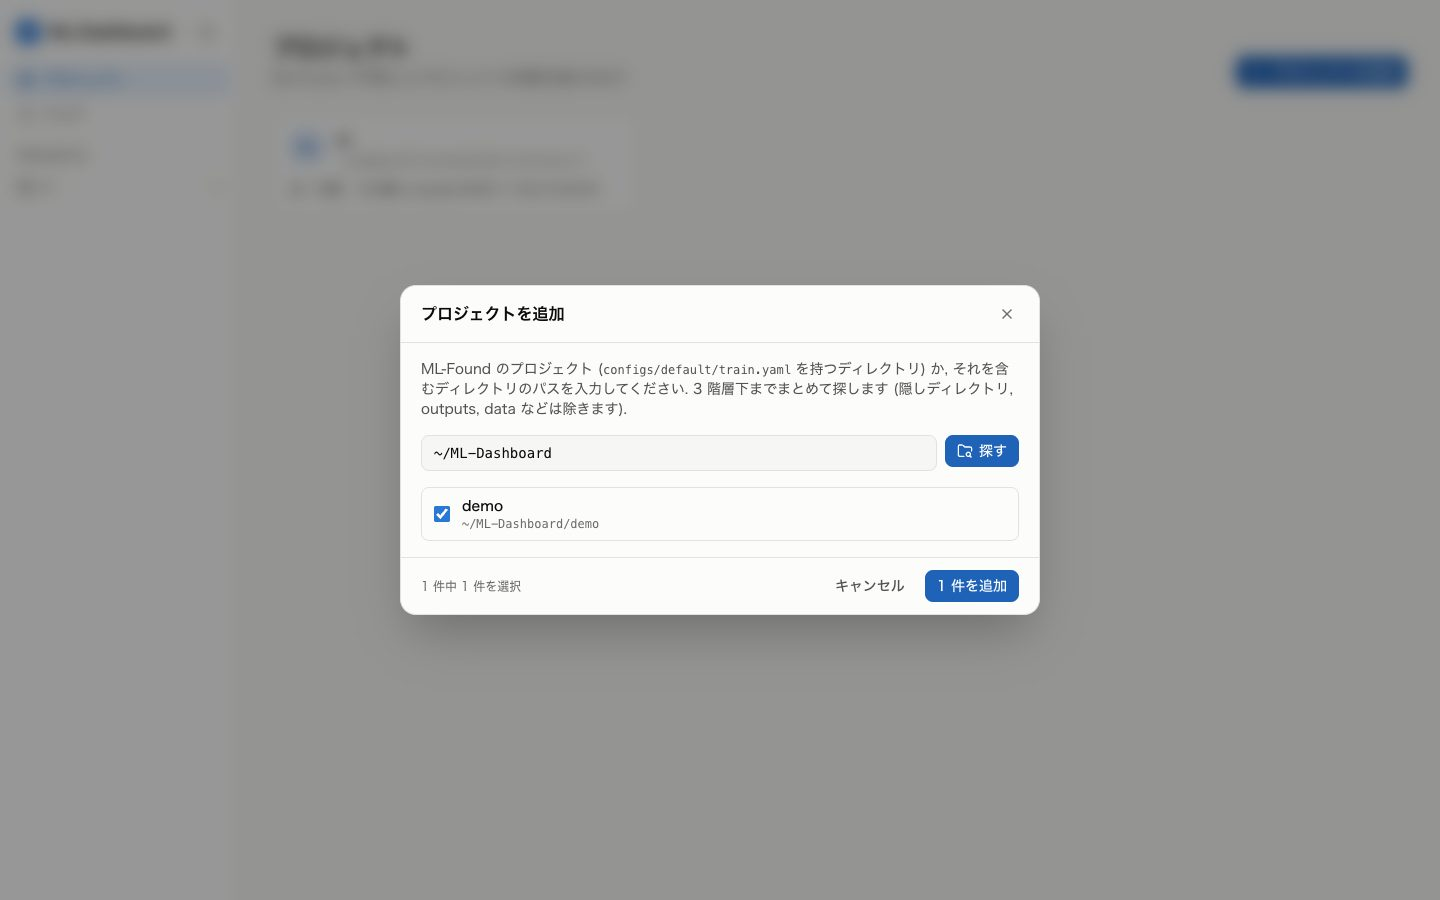
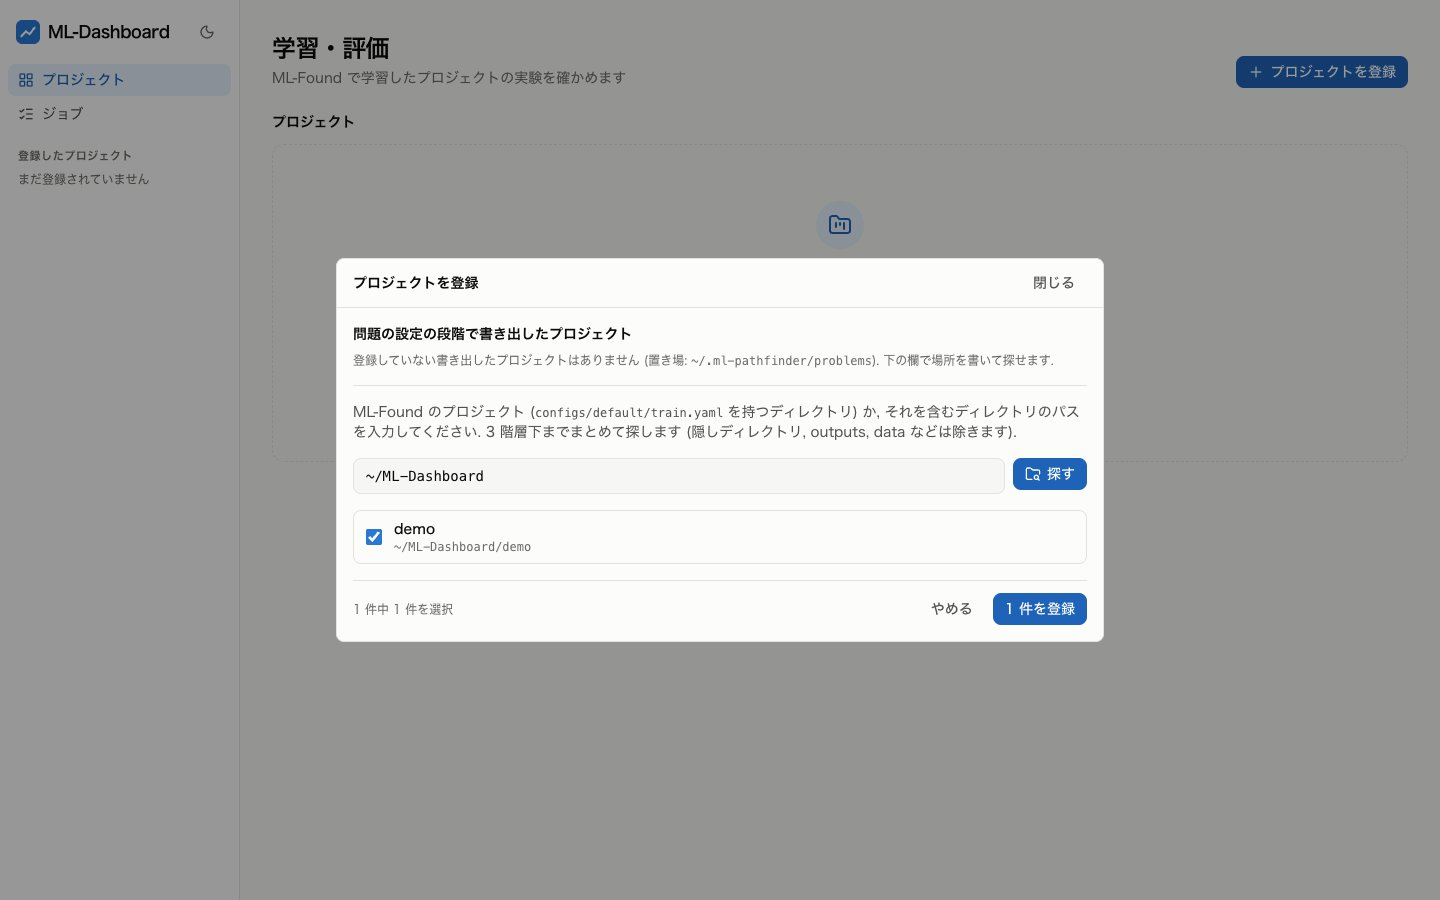
README と操作ガイドの画面の図を今の画面で撮り直す

diff --git a/TODO.md b/TODO.md
@@ -5,19 +5,15 @@
 
 ## 優先度 高
 
-### README と操作ガイドの画面の図を撮り直す
-- 何を: `make screenshots` で README の画面の図と操作ガイドの図を撮り直す
-- なぜ: 図の左の欄の見出し (Projects) とボタン (プロジェクトを追加) が今の画面の語 (登録したプロジェクト, プロジェクトを登録) と違い, 段階の頭の画面の見出しも今の「学習・評価」と違うため
-- 終わりの条件: 図の中の語が今の画面と同じになる
-- つながり: 無し
-
-## 優先度 中
-
 ### 起動の直後に押した中断が消えた場合に送り直す
 - 何を: ジョブの起動の直後 (子の Python がインタプリタを初期化している途中とみられる) に押した中断の SIGINT は, まれに消えて効かない. stop_requested は True になるので, 画面では止めたように見える. 自分で起動したジョブが stop_requested のまま数秒たっても生きていて, 1 回目を受けて止まり始めた様子 (出力や状態のファイルの変化など) も無ければ, SIGINT を送り直す (止まり始めたジョブに 2 回目を送ると中断を強めてしまうため)
 - なぜ: 中断を押したのに学習が続き, 画面と実際の状態が食い違わないようにするため
 - 終わりの条件: 起動の直後に中断を送っても, 数秒のうちにジョブが終わる. 起動の直後に中断を送るテストが, 起動の印を待たずに通る
 - つながり: テストでは学習のスクリプトが起動の印を作るのを待ってから中断を送り, この消え方を避けている (`backend/tests/test_api.py` の `wait_started`)
+
+## 優先度 中
+
+無し
 
 ## 優先度 低
 

diff --git a/docs/GUIDE.md b/docs/GUIDE.md
@@ -281,7 +281,7 @@ uv run python ../demo/train.py model.hidden_dim=16
 
 強化学習の環境 (Gymnasium), MuJoCo, ROS 2, CUDA のように, ML-Found の本体に含めない機能は, 要るときだけ入れる. 実験の一覧か学習の起動の画面の「追加の依存」で, 機能ごとに入っているかと入れ方をカードで見られる (確かめるのはプロジェクトの Python). pip で入るものはコマンドをコピーして, プロジェクトの Python の環境で実行する. pip で入らないもの (ROS 2, CUDA) は公式の手順へのリンクが出る. 入れた後は「確かめ直す」を押す. 入っていても版が下限より古い場合は, 「足りない」でなく「版が古い」と, 入っている版と下限が出る (同じ pip のコマンドで新しい版に入れ替える).
 
-![追加の依存の画面. 4 つの機能のカードに, 足りないものと次の一手が出る](images/requirements.png)
+![追加の依存の画面. 機能ごとのカード (強化学習, MuJoCo, ROS 2, CUDA など) に, 足りないものと次の一手が出る](images/requirements.png)
 
 学習に要る機能は, default の config の一番上に書く.
 

diff --git a/README.md b/README.md
@@ -27,7 +27,7 @@ ML-Found が実験ごとに残すディレクトリ (`history.csv`, `config.yaml
   </tr>
   <tr>
     <td><img src="docs/images/policy.png" alt="方策のタブ: 強化学習の方策の一式, 重みの sha256 の一致, 守り付きの評価の終え方ごとの割合と学習の成功の割合"></td>
-    <td><img src="docs/images/requirements.png" alt="追加の依存: 強化学習, MuJoCo, ROS 2, CUDA が入っているかと入れ方のカード"></td>
+    <td><img src="docs/images/requirements.png" alt="追加の依存: 強化学習, MuJoCo, ROS 2, CUDA などの機能が入っているかと入れ方のカード"></td>
   </tr>
   <tr>
     <td><b>方策</b>. 強化学習の方策の守りと重みの sha256 を確かめる. 重みは配らず, 使ってよいかは人が承認する</td>
